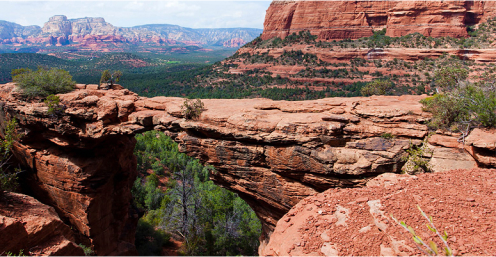
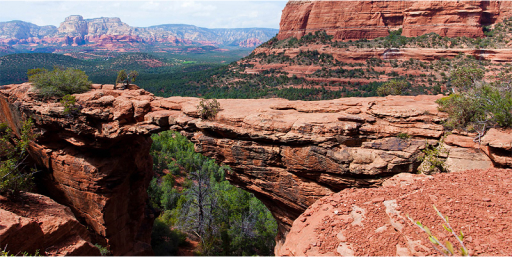
адаптивная графика и ретинизация index.html

diff --git a/source/catalog.html b/source/catalog.html
@@ -16,7 +16,11 @@
       <header class="page-header">
         <nav class="main-nav main-nav--closed main-nav-nojs">
           <a class="main-nav__logo">
-            <img src="img/logotype-mobile.svg" width="102" height="84" alt="Логотип Sedona">
+            <picture>
+              <source media="(min-width: 1200px)" srcset="img/logotype-desktop.svg">
+              <source media="(min-width: 768px)" srcset="img/logotype-tablet.svg">
+                <img src="img/logotype-mobile.svg" width="102" height="84" alt="Логотип Sedona">
+            </picture>
           </a>
           <button class="main-nav__toggle" type="button"></button>
             <span class="visually-hidden">Открыть меню</span>
@@ -37,7 +41,11 @@
             <ul class="gallery__list">
               <li class="gallery__item">
                 <a class="gallery__link" href="#">
-                  <img class="gallery__image" src="img/gallery-item-1.jpg" width="280" height="280" alt="Природа Седоны">
+                  <picture>
+                    <source media="(min-width: 1200px)" srcset="img/gallery/gallery-item-1-desktop.jpg 1x, img/gallery/gallery-item-1-desktop@2x.jpg 2x">
+                    <source media="(min-width: 768px)" srcset="img/gallery/gallery-item-1-tablet.jpg 1x, img/gallery/gallery-item-1-tablet@2x.jpg 2x">
+                    <img class="gallery__image" src="img/gallery/gallery-item-1.jpg" srcset="img/gallery/gallery-item-1@2x.jpg 2x" width="280" height="280" alt="Природа Седоны">
+                  </picture> 
                 </a>
                 <div class="gallery__item__wrapper">
                   <p class="gallery__description">
@@ -48,7 +56,11 @@
               </li>
               <li class="gallery__item">
                 <a class="gallery__link" href="#">
-                  <img class="gallery__image" src="img/gallery/gallery-item-2.jpg" width="280" height="280" alt="Растения в Седоне">
+                  <picture>
+                    <source media="(min-width: 1200px)" srcset="img/gallery/gallery-item-2-desktop.jpg 1x, img/gallery/gallery-item-2-desktop@2x.jpg 2x">
+                    <source media="(min-width: 768px)" srcset="img/gallery/gallery-item-2-tablet.jpg 1x, img/gallery/gallery-item-2-tablet@2x.jpg 2x">
+                    <img class="gallery__image" src="img/gallery/gallery-item-2.jpg" srcset="img/gallery/gallery-item-2@2x.jpg 2x" width="280" height="280" alt="Растения в Седоне">
+                  </picture>
                 </a>
                 <div class="gallery__item__wrapper">
                   <p class="gallery__description">
@@ -59,7 +71,11 @@
               </li>
               <li class="gallery__item">
                 <a class="gallery__link" href="#">
-                  <img class="gallery__image" src="img/gallery-item-3.jpg" width="280" height="280" alt="Северная дорога Седоны">
+                  <picture>
+                    <source media="(min-width: 1200px)" srcset="img/gallery/gallery-item-3-desktop.jpg 1x, img/gallery/gallery-item-3-desktop@2x.jpg 2x">
+                    <source media="(min-width: 768px)" srcset="img/gallery/gallery-item-3-tablet.jpg 1x, img/gallery/gallery-item-3-tablet@2x.jpg 2x">
+                    <img class="gallery__image" src="img/gallery/gallery-item-3.jpg" srcset="img/gallery/gallery-item-3@2x.jpg 2x" width="280" height="280" alt="Северная дорога Седоны">
+                  </picture>
                 </a>
                 <div class="gallery__item__wrapper">
                   <p class="gallery__description">
@@ -70,7 +86,11 @@
               </li>
               <li class="gallery__item">
                 <a class="gallery__link" href="#">
-                  <img class="gallery__image" src="img/gallery-item-4.jpg" width="280" height="280" alt="фотография Моста дьявола">
+                  <picture>
+                    <source media="(min-width: 1200px)" srcset="img/gallery/gallery-item-4-desktop.jpg 1x, img/gallery/gallery-item-4-desktop@2x.jpg 2x">
+                    <source media="(min-width: 768px)" srcset="img/gallery/gallery-item-4-tablet.jpg 1x, img/gallery/gallery-item-4-tablet@2x.jpg 2x">
+                    <img class="gallery__image" src="img/gallery/gallery-item-4.jpg" srcset="img/gallery/gallery-item-4@2x.jpg 2x" width="280" height="280" alt="фотография Моста дьявола">
+                  </picture>
                 </a>
                 <div class="gallery__item__wrapper">
                   <p class="gallery__description">

diff --git a/source/index.html b/source/index.html
@@ -105,48 +105,6 @@
                 <h4 class="item__title">Мало<br> туристов</h4>
                 <p class="item__description">Большинство едет в гранд каньон и толпится там</p>
               </li>
-              <!-- <li class="features__item item">
-                <div class="item__wrapper">
-                  <h4 class="item__title">Настоящий<br> городок</h4>
-                  <p class="item__intro">Седона не аттаркцион для туристов, там течет своя жизнь</p>
-                </div>
-                <div class="features__image"><span class="visually-hidden">Фоторграфия Седоны</span></div>
-                <ul class="advantages">
-                  <li class="advantages__item advantages__item--home">
-                    <h5 class="advantages__title advantages__title--home">Жилье</h5>
-                    <p class="advantages__intro advantages__intro--home">Рекомендуем пожить в настоящем мотеле, все как в кино!</p>
-                  </li>
-                  <li class="advantages__item advantages__item--gift">
-                    <h5 class="advantages__title advantages__title--gift">Сувениры</h5>
-                    <p class="advantages__intro advantages__intro--gift">Не только китайского,<br> но и местного производства!</p>
-                  </li>
-                  <li class="advantages__item advantages__item--food">
-                    <h5 class="advantages__title advantages__title--food">Еда</h5>
-                    <p class="advantages__intro advantages__intro--food">Всегда заказывайте фирменный бургер, вы не разочаруетесь!</p>
-                  </li>
-                </ul>
-              </li>
-              <li class="features__item item">
-                <div class="item__wrapper">
-                  <h4 class="item__title">Там есть<br> мост дьявола</h4>
-                  <p class="item__intro">Да, по нему можно пройти!<br> Если вы осмелитесь, конечно</p>
-                </div>
-                <div class="features__image"><span class="visually-hidden">Фоторграфия Седоны</span></div>
-                <ol class="advantages advantages--second" start="3">
-                  <li class="advantages__item">
-                    <h5 class="advantages__title">Небольшая<br> площадь</h5>
-                    <p class="advantages__intro">Все интересные места находятся очень близко</p>
-                  </li>
-                  <li class="advantages__item">
-                    <h5 class="advantages__title">Красивая<br> дорога</h5>
-                    <p class="advantages__intro">Ехать в Седону из Лас-Вегаса совсем не скучно!</p>
-                  </li>
-                  <li class="advantages__item">
-                    <h5 class="advantages__title">Мало<br> туристов</h5>
-                    <p class="advantages__intro">Большинство едет в гранд каньон и толпится там</p>
-                  </li>
-                </ol>
-              </li> -->
             </ol>
         </section>
         <section class="booking">

diff --git a/source/less/blocks/page-header.less b/source/less/blocks/page-header.less
@@ -8,11 +8,11 @@
 
   @media (min-width: @tablet-width) {
     width: 100%;
-    margin-bottom: 58px;
+    margin-bottom: 55px;
   }
 
   @media (min-width: @desktop-width) {
-    margin-bottom: 110px;
+    margin-bottom: 55px;
   }
 }
 
@@ -35,12 +35,18 @@
     background-size: 282px 214px;
   }
 
+  @media (min-resolution: 2dppx) {
+    background-image: url("../../img/icons/intro-triangle.svg"), url("../../img/main-wall@2x.jpg"); 
+    background-repeat: no-repeat;
+    background-size: 320px;
+    background-position-y: 100%; 
+  }
+
   @media (min-width: @tablet-width) {
     height: 518px;
-    background-image: url("../../img/icons/intro-triangle-desktop.svg"), url("../../img/back-desktop.jpg");
+    background-image: url("../../img/icons/intro-triangle-desktop.svg"), url("../../img/main-wall-desktop.jpg");
     background-position-y: 232px, 0px;
-    background-position-x: 50%, 50%;
-    background-size: 1200px 518px, 1200px 518px;
+    background-size: 1200px 518px, 768px 518px;
 
     &::before {
       width: 461px;
@@ -49,15 +55,26 @@
       left: 152px;
       top: 80px;
     }
+
+    @media (min-resolution: 2dppx) {
+      background-image: url("../../img/icons/intro-triangle-desktop.svg"), url("../../img/main-wall-tablet@2x.jpg"); 
+      background-size: 1200px, 768px 518px;
+      background-position-x: 50%;
+      background-position-y: 100%; 
+    }
   }
 
   @media (min-width: @desktop-width) {
+    background-image: url("../../img/icons/intro-triangle-desktop.svg"), url("../../img/main-wall-desktop.jpg");
     background-size: 1200px, 1200px 518px;
-    background-position-y: 461px, 0px;
     
     &::before {
       left: 370px;
       top: 80px;
+    }
+
+    @media (min-resolution: 2dppx) {
+      background-image: url("../../img/icons/intro-triangle-desktop.svg"), url("../../img/main-wall-desktop@2x.jpg"); 
     }
   }
 }
@@ -88,6 +105,10 @@
   }
 
   @media (min-width: @desktop-width) {
+    background-position-x: 0px;
+    background-position-y: 14px, 14px;
+    margin-bottom: 55px;
+    
     &::before {
       left: 370px;
     }

diff --git a/source/less/blocks/features.less b/source/less/blocks/features.less
@@ -38,7 +38,12 @@
     background-image: url("../../img/photo-city.jpg");
     background-repeat: no-repeat;
     background-position: center bottom;
-    grid-column: span 2;    
+    grid-column: span 2;   
+    
+    @media (min-resolution: 2dppx) {
+      background-image: url("../../img/photo-city@2x.jpg");      
+      background-size: cover;
+    }
   }
 
 
@@ -50,6 +55,11 @@
     background-repeat: no-repeat;
     background-position: center bottom;
     grid-column: span 2;
+
+    @media (min-resolution: 2dppx) {
+      background-image: url("../../img/photo-bridge@2x.jpg");      
+      background-size: cover;
+    }
   }
   
   @media (max-width: @mobile-width-only) {
@@ -94,6 +104,16 @@
     grid-column: span 2;
     order: 0;
   }
+
+  @media (min-resolution: 2dppx) {
+    .features__item:first-child::after {
+      background-image: url("../../img/photo-city-tablet@2x.jpg");
+    }
+    
+    .features__item:nth-child(2)::after {
+      background-image: url("../../img/photo-bridge-tablet@2x.jpg");
+    }
+  }
 }
 
 @media (min-width: @desktop-width) {
@@ -101,9 +121,25 @@
     margin-bottom: 44px;
   }
 
-  .features__item:first-child::after,
-  .features__item:nth-child(2)::after {
+  .features__item:first-child::after {
+    background-image: url("../../img/photo-city-desktop.jpg");
     width: 800px;
     background-size: 800px;
+  }
+
+  .features__item:nth-child(2)::after {
+    background-image: url("../../img/photo-bridge-desktop.jpg");
+    width: 800px;
+    background-size: 800px;
+  }
+
+  @media (min-resolution: 2dppx) {
+    .features__item:first-child::after {
+      background-image: url("../../img/photo-city-desktop@2x.jpg");
+    }
+    
+    .features__item:nth-child(2)::after {
+      background-image: url("../../img/photo-bridge-desktop@2x.jpg");
+    }
   }
 }

diff --git a/source/less/blocks/page-footer.less b/source/less/blocks/page-footer.less
@@ -6,13 +6,17 @@
   width: 320px;
 
   @media (min-width: @tablet-width) {
-    display: flex;
+    // display: flex;
     width: 768px;
+    display: grid;
+    grid-template-columns: repeat(3, 242px);
+    column-gap: 20px;
     margin: 0 auto;
   }
 
   @media (min-width: @desktop-width) {
-    width: 1280px;
+    width: 1200px;
+    grid-template-columns: repeat(3, 387px);  
   }
 }
 .page-footer__item {
@@ -26,8 +30,8 @@
 
   @media (min-width: @tablet-width) {
     position: relative;
-    top: 16px;
-    margin-left: 60px;
+    margin: 0 auto;
+    padding: 15px 24px;
   }
 
   @media (min-width: @desktop-width) {
@@ -43,9 +47,7 @@
   position: relative;
   display: block;
   margin: 0 auto;
-  padding-right: 0px;
   width: 124px;
-  height: 26px;
   margin-bottom: 26px;
 
   & svg {
@@ -64,19 +66,11 @@
   }
 
   @media (min-width: @tablet-width) {
-    position: relative;
     top: 14px;
-    margin-right: 96px;
-
-    & svg {
-      right: -36px;
-    }
-  }
+   }
 
   @media (min-width: @desktop-width) {
-    margin-left: 0;
-    margin-right: 204px;
-
+   
     & svg {
       right: -6px;
     }

diff --git a/source/less/blocks/gallery.less b/source/less/blocks/gallery.less
@@ -69,7 +69,7 @@
 
   @media (min-width: @desktop-width) {
     position: absolute;
-    top: 195px;
+    top: 187px;
     width: 100%;
     background-color: rgba(0, 0, 0, 0.3);
     color: @white;
@@ -81,7 +81,6 @@
   width: 100%;
   height: 280px;
   vertical-align: bottom;
-  background-image: url("../../img/gallery/photo-2-desktop.jpg");
   background-size: cover;
 
   @media (min-width: @tablet-width) {
@@ -89,9 +88,18 @@
   }
 }
 
-.gallery__item:first-child .gallery__image {
+.gallery__item:first-child {
   @media (min-width: @tablet-width) {
-    height: 400px;
+    .gallery__image {
+      // width: 648px;
+      height: 400px;
+    } 
+  }
+
+  @media (min-width: @desktop-width) {
+    .gallery__item__wrapper {
+      top: 320px;
+    }
   }
 }
 

diff --git a/source/form.html b/source/form.html
@@ -16,7 +16,11 @@
       <header class="page-header">
         <nav class="main-nav main-nav--closed main-nav-nojs">
           <a class="main-nav__logo">
-            <img src="img/logotype-mobile.svg" width="102" height="84" alt="Логотип Sedona">
+            <picture>
+              <source media="(min-width: 1200px)" srcset="img/logotype-desktop.svg">
+              <source media="(min-width: 768px)" srcset="img/logotype-tablet.svg">
+                <img src="img/logotype-mobile.svg" width="102" height="84" alt="Логотип Sedona">
+            </picture>
           </a>
           <button class="main-nav__toggle" type="button"></button>
             <span class="visually-hidden">Открыть меню</span>

diff --git a/source/less/blocks/social.less b/source/less/blocks/social.less
@@ -8,13 +8,14 @@
   list-style: none;
 
   @media (min-width: @tablet-width) {
-   width: 500px; 
-    padding-left: 10px;
+  //  width: 500px;
+  width: 242px; 
+    padding: 0;
   }
   
   @media (min-width: @desktop-width) {
-    width: 650px;
-    padding-right: 64px;
+    width: 387px;
+    // padding-right: 64px;
     // margin-right: 30px;
   }
 }
